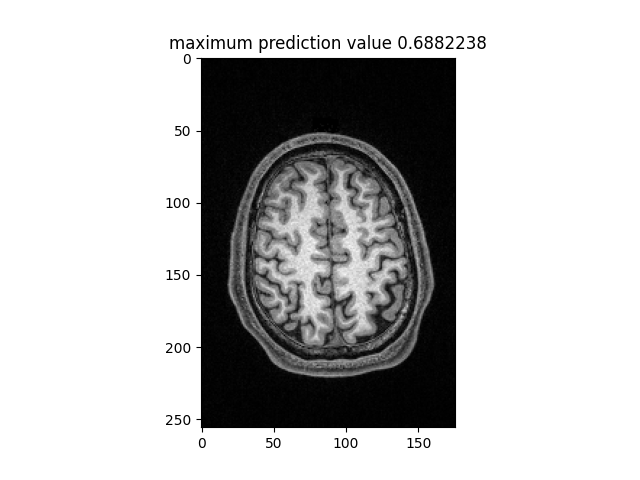
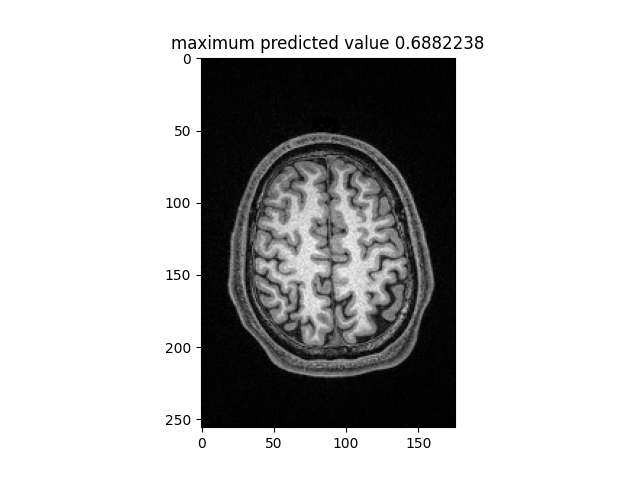
correcting readme format

Changed region(s): [[0.25, 0.0625, 0.7812, 0.125]]

diff --git a/MoCIDet.py b/MoCIDet.py
@@ -156,12 +156,12 @@ def run_cnn(params):
                                 if pred1[arg_min, 1] < pred_min:
                                     pred_min = pred1[arg_min, 1]
                                     plt.imshow(data[arg_min, :, :, 1], cmap='gray')
-                                    plt.title('minimum prediction value ' + str(pred_min))
+                                    plt.title('minimum predicted value ' + str(pred_min))
                                     plt.savefig(fig_path+'min_' + str(name) + '.png')
                                 if pred1[arg_max, 1] > pred_max:
                                     pred_max = pred1[arg_max, 1]
                                     plt.imshow(data[arg_max, :, :, 1], cmap='gray')
-                                    plt.title('maximum prediction value ' + str(pred_max))
+                                    plt.title('maximum predicted value ' + str(pred_max))
                                     plt.savefig(fig_path+'max_' + name + '.png')
                         except:
                             print('Could not save the image')

diff --git a/README.md b/README.md
@@ -47,7 +47,7 @@ python3 MoCIDet.py -data_path path/to/folder/containing/volumes -data_type 'imag
 ```bash
 python MoCIDet.py -data_path test_anon/nifti/ -data_type nifti -save_file test_nifti.txt -display -save_slice
 ```
-
+```bash
 test_anon/nifti/ABIDE_50002_MRI_MP-RAGE_br_raw_20120830172854796_S164623_I328631.nii 1.0
 Time:  8.021493673324585
 test_anon/nifti/ABIDE_50003_MRI_MP-RAGE_br_raw_20120830155445855_S164416_I328410.nii 1.0
@@ -61,14 +61,14 @@ Time:  8.439939022064209
 ['test_anon/nifti/ABIDE_50003_MRI_MP-RAGE_br_raw_20120830155445855_S164416_I328410.nii' '1.0']
 ['test_anon/nifti/sub-10159_T1w.nii.gz' '1.0']
 ['test_anon/nifti/sub-10206_T1w.nii.gz' '0.05185185185185185']]
-
+```
 
 Slices saved:
+ # ABIDE_50002_MRI_MP-RAGE_br_raw_20120830172854796_S164623_I328631
+![Minimum prediction slice](./output_files/images/min_ABIDE_50002_MRI_MP-RAGE_br_raw_20120830172854796_S164623_I328631.png) | ![Maximum prediction slice](./output_files/images/max_ABIDE_50002_MRI_MP-RAGE_br_raw_20120830172854796_S164623_I328631.png)
 
-![Minimum prediction slice](./output_files/images/min_ABIDE_50002_MRI_MP-RAGE_br_raw_20120830172854796_S164623_I328631.png)
-![Maximum prediction slice](./output_files/images/max_ABIDE_50002_MRI_MP-RAGE_br_raw_20120830172854796_S164623_I328631.png)
-![Minimum prediction slice](./output_files/images/min_ABIDE_50003_MRI_MP-RAGE_br_raw_20120830155445855_S164416_I328410.png)
-![Maximum prediction slice](./output_files/images/max_ABIDE_50003_MRI_MP-RAGE_br_raw_20120830155445855_S164416_I328410.png)
+# ABIDE_50003_MRI_MP-RAGE_br_raw_20120830155445855_S164416_I328410
+![Minimum prediction slice](./output_files/images/min_ABIDE_50003_MRI_MP-RAGE_br_raw_20120830155445855_S164416_I328410.png) | ![Maximum prediction slice](./output_files/images/max_ABIDE_50003_MRI_MP-RAGE_br_raw_20120830155445855_S164416_I328410.png)
 
 If you find this repository useful, please consider giving a star ⭐ and citation 🦖:
 ```bash
